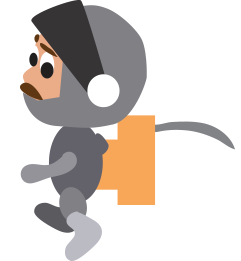
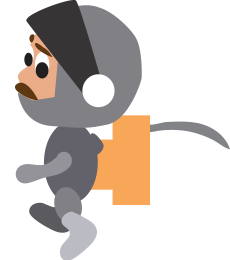
* player stops when it's has no animation

diff --git a/Project/Game/Assets/Scripts/Player.cs b/Project/Game/Assets/Scripts/Player.cs
@@ -2,22 +2,25 @@ using UnityEngine;
 using System.Collections;
 
 public class Player : MonoBehaviour {
-	public 	int 			playerID;
-	private	int 			mPlayerID;
-	private	UISlicedSprite	mUIButton;
-	private	float			mSpeed;
-	private	Vector3			mTargetPos;
-	private	bool			mMove = false;
-	private	bool			mMoveLeft = false;
-	private	float			mDistance = 20f;
-	private	bool			mSetup = false;
-	private	GameObject		mProgressBarGO;
-	private	GameObject		mProgressBar;
+	public 	int 				playerID;
+	private	int 				mPlayerID;
+	private	UISlicedSprite		mUIButton;
+	private	float				mSpeed;
+	private	Vector3				mTargetPos;
+	private	bool				mMove = false;
+	private	bool				mMoveLeft = false;
+	private	float				mDistance = 20f;
+	private	bool				mSetup = false;
+	private	GameObject			mProgressBarGO;
+	private	GameObject			mProgressBar;
+	private	UISpriteAnimation	mAni;
 		
 	// Use this for initialization
 	void Start () {
 		mPlayerID = playerID;
 		mUIButton = gameObject.GetComponent<UISlicedSprite>();
+		mAni = gameObject.GetComponent<UISpriteAnimation>();
+		if(mAni)mAni.enabled = false;
 	}
 	void Init(){
 		if(Controller.instance){
@@ -76,10 +79,13 @@ public class Player : MonoBehaviour {
 		Vector3 delta = GetTargetPos();
         delta.Normalize();
         float moveSpeed = mSpeed * Time.deltaTime/10;
+		if(mAni)mAni.enabled = true;
 		if(mMoveLeft){
         	transform.position = transform.position + (delta * moveSpeed);
+			transform.localScale = new Vector3(230, 260,0);
 		}else{
 			transform.position = transform.position - (delta * moveSpeed);
+			transform.localScale = new Vector3(-230, 260,0);
 		}
 	}
 	
